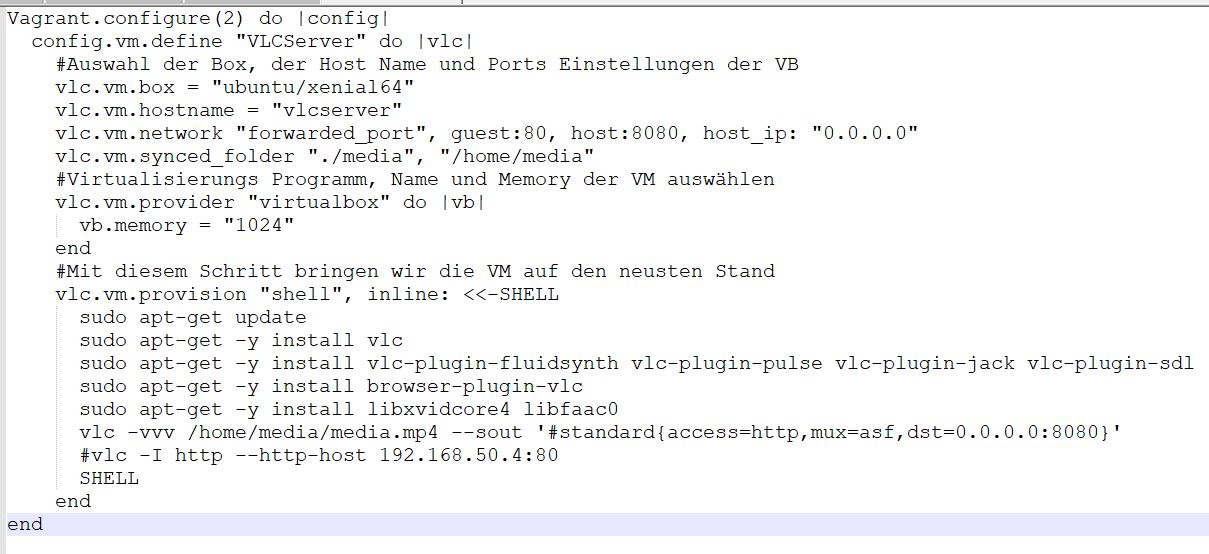
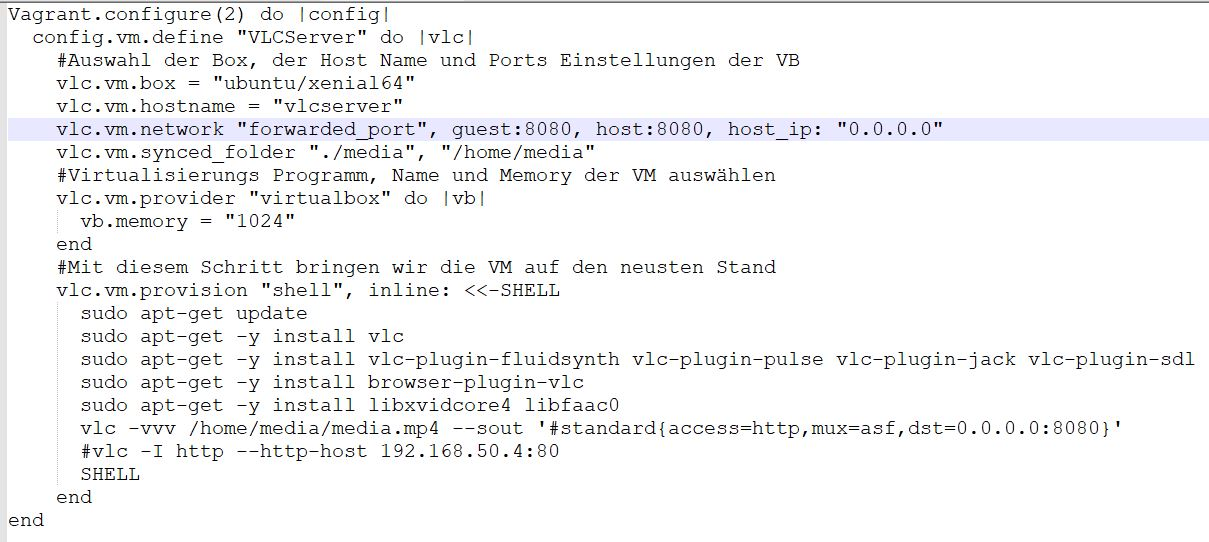
Add files via upload

Changed region(s): [[0.0, 0.0, 1.0, 0.9742]]

diff --git a/README.md b/README.md
@@ -82,7 +82,7 @@ Unsere Idee war es ein VLC Stream Server zu erstellen in welchem man bei dem Hos
 So sieht das Vagrantfile aus.
 ![Bild 1](/images/vlc.JPG)
 
-In dem ersten Abschnitt des Files wird die Erstelllung der VM gemacht und den Provider VirtualBox gewählt und der Ordner Media in dem Projekt Ordner wird dem Server übergeben. Somit kann der Datenaustausch der Medien geregelt werden. Ausserdem wird dem Host den Port 80 auf den Port 8080 weitergeleitet.
+In dem ersten Abschnitt des Files wird die Erstelllung der VM gemacht und den Provider VirtualBox gewählt und der Ordner Media in dem Projekt Ordner wird dem Server übergeben. Somit kann der Datenaustausch der Medien geregelt werden. Ausserdem wird dem Host den Port 8080 auf den Port 8080 weitergegeben um darauf zuzugreifen.
 
 In dem Zweiten Abschnitt wird die Installation von dem VLC Server gemacht sowie die Installation meherer Codex zur Wiedergabe verschiedener Dateformate. Mit dem Letzten Befehl wird der Stream gestartet auf den Port 8080.
 
